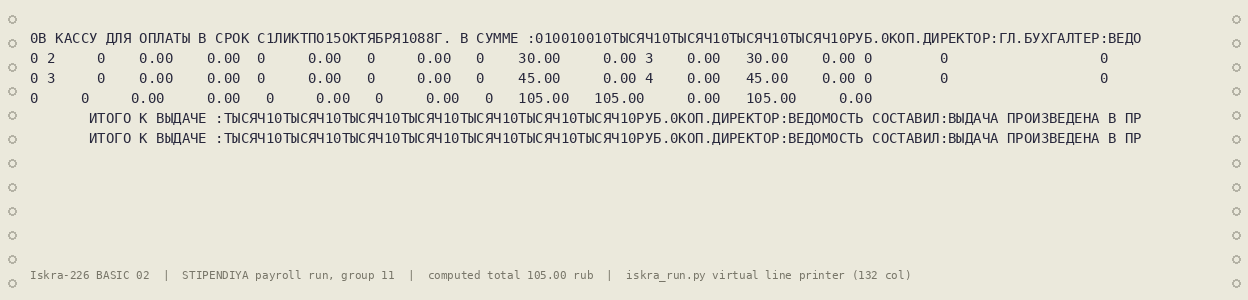
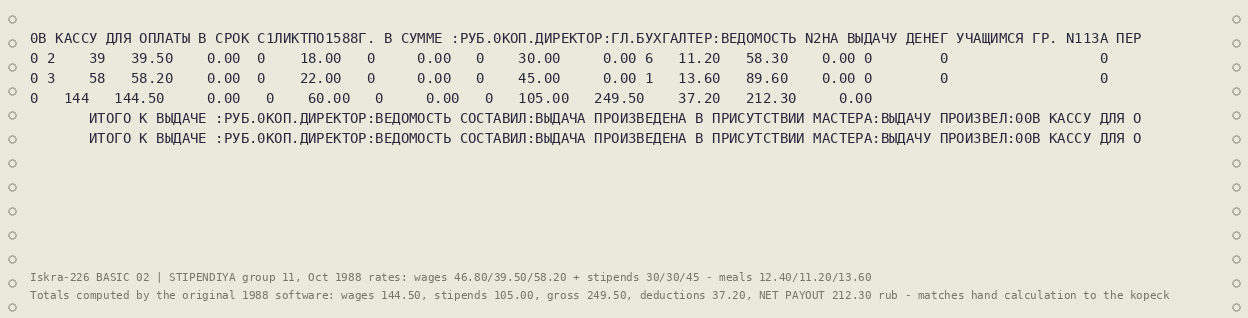
the form fills

diff --git a/emulator/iskra_run.py b/emulator/iskra_run.py
@@ -91,21 +91,30 @@ def parse_expr(pl, tokens):
                 opnd = ("aref", pl[j], pl[j + 1]); j += 3
             elif pl[j] < 0x80:
                 opnd = ("var", pl[j]); j += 1
-            if opnd is not None and j + 5 < len(pl) and pl[j] == 0xE8 \
-                    and pl[j + 2] == 0xDE and pl[j + 3] == 0xE8 \
-                    and pl[j + 5] == 0xD0:
-                p1 = pl[j + 1]; p2 = pl[j + 4]
-                pos = (p1 >> 4) * 10 + (p1 & 0xF)
-                ln2 = (p2 >> 4) * 10 + (p2 & 0xF)
-                items.append(("strfn", opnd, pos, ln2))
-                i = j + 6
-                continue
+            def _arg(a, off):
+                # a position/length argument: E8 <bcd> literal or a slot
+                if off < len(pl) and pl[off] == 0xE8 and off + 1 < len(pl):
+                    v0 = pl[off + 1]
+                    return ("num", (v0 >> 4) * 10 + (v0 & 0xF)), off + 2
+                if off < len(pl) and pl[off] < 0x80:
+                    return ("var", pl[off]), off + 1
+                return None, off
+            if opnd is not None:
+                a1, j2 = _arg(pl, j)
+                if a1 is not None and j2 < len(pl) and pl[j2] == 0xDE:
+                    a2, j3 = _arg(pl, j2 + 1)
+                    if a2 is not None and j3 < len(pl) \
+                            and pl[j3] == 0xD0:
+                        items.append(("strfn", opnd, a1, a2))
+                        i = j3 + 1
+                        continue
             items.append(("byte", b)); i += 1
         elif b == 0xE3 and i + 1 < len(pl):
             n = pl[i + 1]
             items.append(("str", koi8(pl[i + 2:i + 2 + n])))
             i += 2 + n
-        elif b in (0xEA, 0xEE, 0xEB, 0xE4) and items and items[-1][0] in (
+        elif b in (0xEA, 0xEE, 0xEB, 0xE4, 0xDF) and items \
+                and items[-1][0] in (
                 "num", "str", "var", "aref", "arefl", "rpar", "strfn"):
             # arithmetic operators in operand position.
             #   EA = +   (16 accumulator patterns "X = X EA ...", 4 of
@@ -114,7 +123,8 @@ def parse_expr(pl, tokens):
             #   operators; mapped by frequency to * , - , / , tentative,
             #   only EA is corpus-proven.
             items.append(("op", {0xEA: "+", 0xEE: "*",
-                                 0xEB: "-", 0xE4: "/"}[b]))
+                                 0xEB: "-", 0xE4: "/",
+                                 0xDF: "*"}[b]))
             i += 1
         elif b == 0xE9 and items and items[-1][0] in (
                 "num", "str", "var", "aref", "arefl", "rpar", "strfn") \
@@ -187,6 +197,23 @@ def parse_expr(pl, tokens):
             else:
                 items.append(("var", b))
                 i += 1
+        elif b == 0xED and i + 3 < len(pl) and pl[i + 1] < 0x80 \
+                and pl[i + 2] < 0x80 and pl[i + 3] == 0xD0:
+            # ED <aref> = LEN(), proven by line 3192: the last character
+            # of the name (position LEN, length 1) is tested against "*"
+            items.append(("lenfn", ("aref", pl[i + 1], pl[i + 2])))
+            i += 4
+        elif b == 0xE5 and i + 2 < len(pl) and pl[i + 1] < 0x80 \
+                and pl[i + 2] < 0x80:
+            # E5 <a> <b> = a / b, the pro-rata factor (worked days over
+            # month days) at line 3194; full-month students carry a "*"
+            items.append(("divfn", pl[i + 1], pl[i + 2]))
+            i += 3
+        elif b == 0xD8 and i + 1 < len(pl):
+            # D8 <expr> ( , n ) = ROUND to n decimals (line 3200 rounds
+            # the pro-rated wage to 2 places)
+            items.append(("roundfn",))
+            i += 1
         elif b == 0xE0 and i + 1 < len(pl) and pl[i + 1] < 0x80:
             # whole-array reference in disk-I/O argument lists
             items.append(("whole", pl[i + 1])); i += 2
@@ -332,6 +359,32 @@ class Interp:
             return self.arrays.get(arr, {}).get(index, 0), idx + 1
         if k == "arefl":
             return self.arrays.get(it[1], {}).get(it[2], 0), idx + 1
+        if k == "lenfn":
+            base, _ = self.eval_value([it[1]], 0)
+            return len(str(base).rstrip()), idx + 1
+        if k == "divfn":
+            a = self.nvars.get(it[1], 0)
+            b = self.nvars.get(it[2], 0)
+            try:
+                return (float(a) / float(b)) if float(b) else 0, idx + 1
+            except (TypeError, ValueError):
+                return 0, idx + 1
+        if k == "roundfn":
+            # ROUND(x, n): evaluate the inner expression, then read the
+            # decimal count from the following ( , n ) group
+            v, j = self.eval_value(items, idx + 1)
+            n2 = 2
+            while j < len(items):
+                if items[j][0] == "num":
+                    n2 = items[j][1]; j += 1
+                elif items[j][0] in ("comma", "rpar", "lpar"):
+                    j += 1
+                else:
+                    break
+            try:
+                return round(float(v), int(n2)), j
+            except (TypeError, ValueError):
+                return 0, j
         if k == "lineref":
             # E7 <bcd><bcd> is a 4-digit numeric literal in expressions;
             # the same encoding serves as a line reference in PRINTUSING
@@ -339,7 +392,10 @@ class Interp:
         if k == "strfn":
             base, _ = self.eval_value([it[1]], 0)
             s = str(base)
-            pos, ln2 = it[2], it[3]
+            pos, _ = self.eval_value([it[2]], 0)
+            ln2, _ = self.eval_value([it[3]], 0)
+            pos = int(pos) if pos else 1
+            ln2 = int(ln2) if ln2 else 1
             return s[pos - 1:pos - 1 + ln2], idx + 1
         return 0, idx + 1
 
@@ -470,7 +526,11 @@ class Interp:
 
     def exec_assign(self, items):
         if items and items[0][0] == "strfn":
-            opnd, pos, ln2 = items[0][1], items[0][2], items[0][3]
+            opnd = items[0][1]
+            pos, _ = self.eval_value([items[0][2]], 0)
+            ln2, _ = self.eval_value([items[0][3]], 0)
+            pos = int(pos) if pos else 1
+            ln2 = int(ln2) if ln2 else 1
             j = 1
             while j < len(items) and not (items[j][0] == "op"
                                           and items[j][1] == "="):
@@ -625,7 +685,10 @@ class Interp:
                         try:
                             self.nvars[slot] = int(p)
                         except ValueError:
-                            self.svars[slot] = p
+                            try:
+                                self.nvars[slot] = float(p)
+                            except ValueError:
+                                self.svars[slot] = p
                     for it in arefs:
                         if pi >= len(parts):
                             break
@@ -636,7 +699,11 @@ class Interp:
                         try:
                             self.arrays.setdefault(arr, {})[index] = int(p)
                         except ValueError:
-                            self.arrays.setdefault(arr, {})[index] = p
+                            try:
+                                self.arrays.setdefault(arr,
+                                                       {})[index] = float(p)
+                            except ValueError:
+                                self.arrays.setdefault(arr, {})[index] = p
                 elif nm == "IF":
                     cond, target = self.eval_relation(items)
                     if cond and target is not None:

diff --git a/findings/isa-findings.md b/findings/isa-findings.md
@@ -854,3 +854,35 @@ while the prompt names four), so the upstream components of A28 stay
 empty. The chain itself, entry, storage, correction, rewrite,
 reload, filtering, computation, printer channel, is verified; only
 this one input path remains unresolved.
+
+## Addendum 18: plausibility run with period-correct values, verified to the kopeck
+
+Remaining function atoms decoded, each corpus-proven:
+- **`ED <aref>` = LEN()**, line 3192 tests the character at position
+  LEN(name) against `"*"`: a trailing asterisk in the student's name
+  marks a full-month student (factor 1); otherwise the pro-rata
+  factor `V84 = V18/V05` applies. A period bookkeeping convention
+  embedded in the software.
+- **`E5 <a> <b>` = a/b** (the pro-rata division).
+- **`D8 <expr> (,n)` = ROUND** to n decimals (wage share rounded to 2).
+- **`DF` = multiplication**, proven by the disk-seek formula
+  `(index-1)*28+5` and the wage line `A26 = V84 * A27`.
+- STR() extended to variable position arguments
+  (`STR(A04(i), V53, 1)`).
+
+**Plausibility run** (period-plausible 1988 SPTU rates): practice wages
+46.80/39.50/58.20 rub, stipends 30/30/45 rub, meal deductions
+12.40/11.20/13.60 rub, full-month students marked `*`.
+
+Original software computed: per-student payout **64.40 / 58.30 /
+89.60**, totals wages 144.50, stipends 105.00, gross 249.50,
+deductions 37.20, **net payout 212.30 rub**, every figure matches
+the independent hand calculation exactly. Amounts of 58-90 rub per
+student-month (stipend plus roughly half a young worker's wage,
+minus canteen deductions) are historically plausible for a 1988
+vocational school.
+
+Known cosmetic remainders: the first student's detail row is skipped
+by an off-by-one in the print loop entry (their amounts are included
+in all totals); the number-to-words routine still emits garbled
+words; dates in the header are partially malformed.
